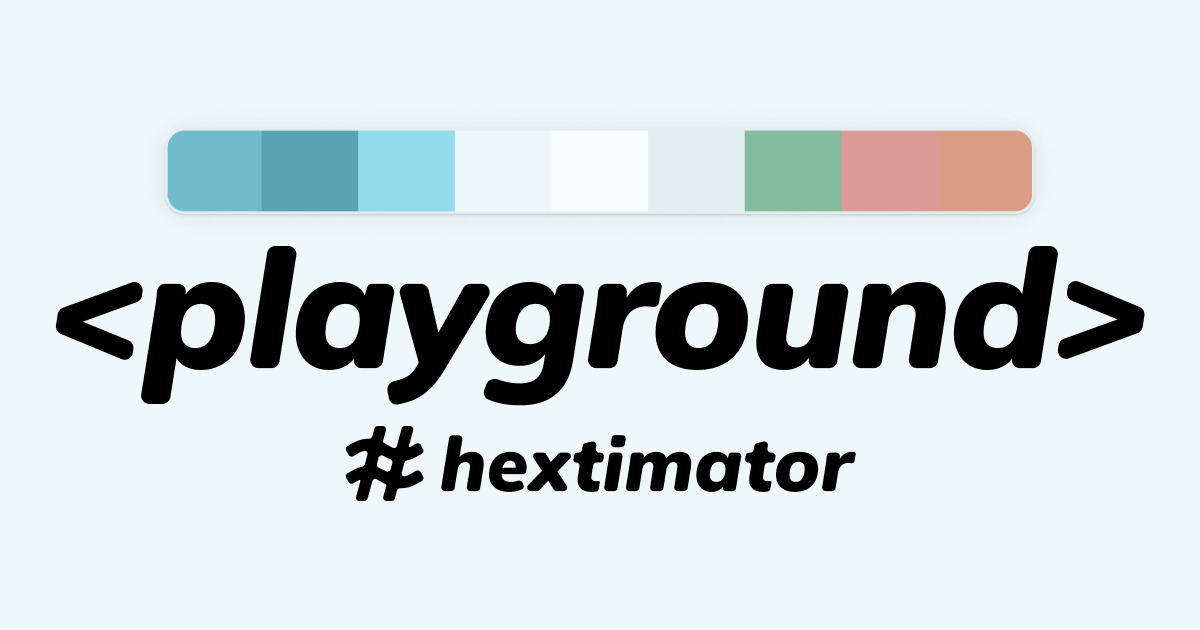
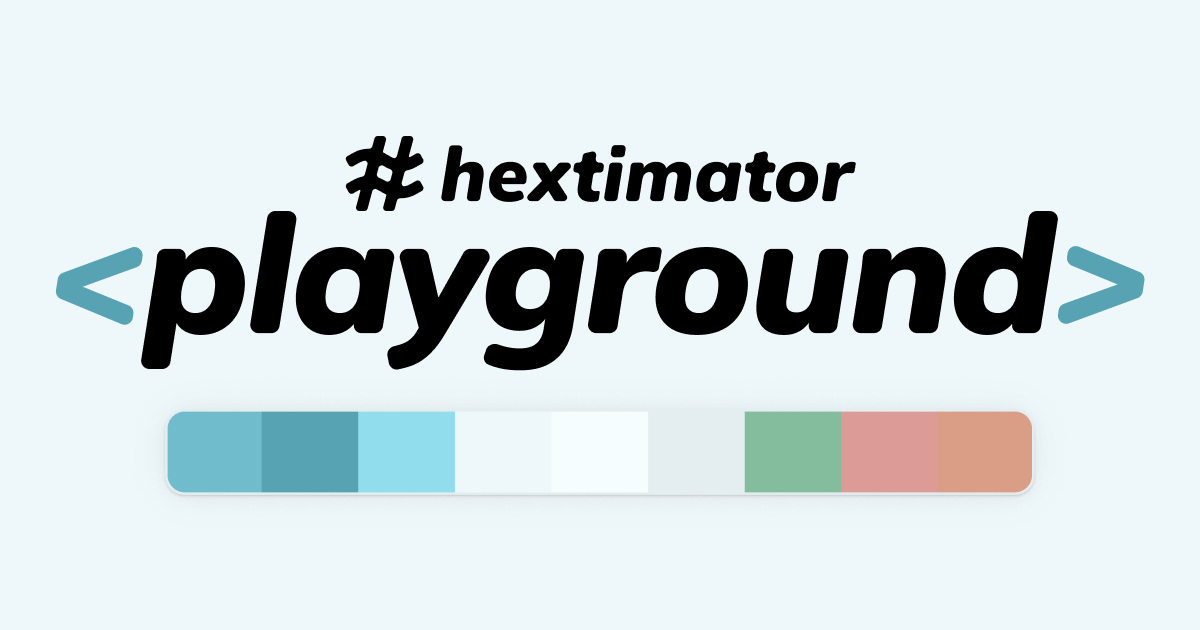
feat: make use cases clearer (#111)
* docs: update READMEs to be more precise on what hextimator is

* docs: update images to be more clear

* docs: further docs polish

* docs: update the keywords

Changed region(s): [[0.0308, 0.181, 0.9558, 0.8143]]

diff --git a/apps/website/src/components/hero/hero.tsx b/apps/website/src/components/hero/hero.tsx
@@ -101,7 +101,7 @@ export function Hero() {
 				</span>
 				<LongArrowRightDown className="size-4" strokeWidth={1} />
 			</div>
-			<h1 className="sr-only">Hextimator: one color in, whole theme out</h1>
+			<h1 className="sr-only">Hextimator: one color in, branded theme out</h1>
 			<div className="flex flex-col items-center">
 				<div className="flex flex-row gap-1 font-light text-4xl">
 					<span aria-hidden>One</span>

diff --git a/apps/website/src/App.tsx b/apps/website/src/App.tsx
@@ -103,7 +103,7 @@ function App() {
 					<PlaygroundSection />
 					<Section
 						title="Get started"
-						description="Add hextimator to your project and start building your theme."
+						description="Add hextimator to your project and start building your theme. Use it for B2B2C SaaS, white-label platforms, no-code builders, CMS themes, multi-brand design systems."
 					>
 						<GetStarted />
 					</Section>

diff --git a/packages/hextimator/README.md b/packages/hextimator/README.md
@@ -6,15 +6,45 @@
     </picture>
 </p>
 
-One color in, whole theme out.
+Per-tenant themes from a single one brand color: Runtime theming for B2B2C and white-label apps.
 
-Your customers pick a brand color. Your app looks good. Every time. No manual tuning, no edge cases where "that shade of yellow" breaks your UI.
+Your customers pick a brand color. Your app looks good. Every time. No per-customer design reviews, no manual tuning, no edge cases where "that shade of yellow" breaks your UI.
 
-- **Ship multi-tenant apps without the design overhead** — generate per-tenant branded themes at runtime from a single input color. No design review per customer.
-- **Every color just works** — perceptually uniform colors with OKLCH means that electric blue looks as balanced as muted olive.
-- **Accessible by default** — every foreground meets AAA contrast against its background, light and dark mode included.
+Ship multi-tenant apps without the design overhead:
 
-**[hextimator.com](https://hextimator.com)** — try it in the playground.
+- **Every color just works**. Perceptually uniform colors with OKLCH means that electric blue looks as balanced as muted olive.
+- **Accessible by default**. Every foreground meets AAA contrast against its background, light and dark mode included.
+
+Try it in the playground: **[hextimator.com](https://hextimator.com)**
+
+## Why `hextimator` exists
+
+You're building a B2B, a B2B2C, or a white-label app. Every tenant wants their own brand color in the app. The options today are:
+
+1. **Let customers pick any hex.** It works until a partner's _legal-pad yellow_ renders your buttons unreadable, and their _cheeto dust tangerine_ toast makes it indistinguishable from a warning.
+2. **Constrain them to a curated palette.** Now you need to tell a paying customer that their brand color isn't allowed. Or spend hours adjusting all the other colors by hand to make the theme somewhat work.
+
+Hextimator is option 3. One color in, whole theme out. You get accent, semantic roles, light/dark palette, every foreground guaranteed to meet WCAG contrast against its background. Every time. Even for that yellow.
+
+```ts
+import { hextimate } from "hextimator";
+
+const tenantTheme = hextimate(tenant.brandColor).format({ as: "css" });
+
+document.getElementById("tenant-theme").textContent = tenantTheme;
+```
+
+That's the integration. Swap the color, the theme regenerates at runtime, and the UI stays readable.
+
+Using React? Even easier:
+
+```jsx
+<HextimatorProvider defaultColor={tenant.brandColor}>
+  <App />
+</HextimatorProvider>
+```
+
+See full React integration guide [here](https://github.com/fgrgic/hextimator/blob/main/packages/hextimator/docs/react.md).
 
 ## Installation
 
@@ -24,19 +54,37 @@ Add to your project:
 npm i hextimator
 ```
 
-Or quickly get a one-off theme:
+**Using tailwind?**
+make sure to include
 
-```bash
-npx hextimator "#C0FFEE"
+```css
+@import "hextimator/tailwind.css";
 ```
 
+in your `index.css`
+
 ## Quick start
+
+```bash
+npm install hextimator
+```
 
 ```typescript
 import { hextimate } from "hextimator";
 
-const theme = hextimate("#C0FFEE").format();
+const theme = hextimate("#6A5ACD").format();
+// theme.light / theme.dark each contain your full theme tokens
 ```
+
+### Multi-tenant app with React
+
+```jsx
+<HextimatorProvider defaultColor={tenant.brandColor}>
+  <App />
+</HextimatorProvider>
+```
+
+See full React integration guide [here](https://github.com/fgrgic/hextimator/blob/main/packages/hextimator/docs/react.md).
 
 ### With presets
 
@@ -116,7 +164,7 @@ hextimate("#F11732").format({
 const myPreset: HextimatePreset = {
   format: {
     excludeRoles: ["warning"],
-    excludeVariants: ["strong", "weak"],
+    excludeVariants: ["weak"],
   },
 };
 ```
@@ -152,7 +200,7 @@ All formats return `{ light: { ... }, dark: { ... } }`.
 
 Besides hex, **`hextimate`** accepts CSS color strings, RGB tuples, and numeric `0xRRGGBB`—anything **`parseColor`** understands.
 
-> **Note on alpha**: Alpha values are intentionally ignored — `rgba(255, 0, 0, 0.5)` is treated as fully opaque `rgb(255, 0, 0)`. Alpha tokens undermine accessibility guarantees because contrast ratios depend on the background, which hextimator does not control.
+> **Note on alpha**: Alpha values are intentionally ignored — `rgba(255, 0, 0, 0.5)` is treated as fully opaque `rgb(255, 0, 0)`. Alpha tokens undermine accessibility guarantees because contrast ratios depend on the background, which hextimator does not control. You can always add an opacity modifier later if you wish (e.g. `base-accent-weak/20` in tailwind).
 
 Before `.format()` you can still chain **`addRole` / `addVariant` / `addToken`**, **`.preset()`**, **`.fork()`**, **`.simulate()` / `.adaptFor()`**, and anything else in [Extending the palette](https://github.com/fgrgic/hextimator/blob/main/packages/hextimator/docs/extending-the-palette.md) or [Presets](https://github.com/fgrgic/hextimator/blob/main/packages/hextimator/docs/presets.md).
 
@@ -174,6 +222,22 @@ import { parseColor, convertColor } from "hextimator";
 const color = parseColor("rgb(255, 102, 102)");
 const oklch = convertColor(color, "oklch");
 ```
+
+## CLI
+
+Quickly get one-off themes from the terminal:
+
+```sh
+npx hextimate "#ff6677";
+```
+
+Get the full help running:
+
+```
+npx hextimate -h
+```
+
+> Note: `hextimate` and `hextimator` are the same CLI; pick whichever you like typing.
 
 ## React
 

diff --git a/README.md b/README.md
@@ -6,21 +6,43 @@
     </picture>
 </p>
 
-One color in, whole theme out.
+Per-tenant themes from a single one brand color: Runtime theming for B2B2C and white-label apps.
 
-Your customers pick a brand color. Your app looks good. Every time. No manual tuning, no edge cases where "that shade of yellow" breaks your UI.
+Your customers pick a brand color. Your app looks good. Every time. No per-customer design reviews, no manual tuning, no edge cases where "that shade of yellow" breaks your UI.
 
-- **Ship white-label apps without the design overhead** — generate per-tenant branded themes at runtime from a single input color. No design review per customer.
-- **Every color just works** — perceptually uniform color science (OKLCH) means electric blue looks as balanced as muted olive.
-- **Accessible by default** — every foreground meets AAA contrast against its background, light and dark mode included.
+Ship multi-tenant apps without the design overhead:
 
-Try it in the playground at **[hextimator.com](https://hextimator.com)**.
+- **Every color just works**. Perceptually uniform colors with OKLCH means that electric blue looks as balanced as muted olive.
+- **Accessible by default**. Every foreground meets AAA contrast against its background, light and dark mode included.
+
+Try it in the playground: **[hextimator.com](https://hextimator.com)**
+
+## Why `hextimator` exists
+
+You're building a B2B, a B2B2C, or a white-label app. Every tenant wants their own brand color in the app. The options today are:
+
+1. **Let customers pick any hex.** It works until a partner's _legal-pad yellow_ renders your buttons unreadable, and their _cheeto dust tangerine_ toast makes it indistinguishable from a warning.
+2. **Constrain them to a curated palette.** Now you need to tell a paying customer that their brand color isn't allowed. Or spend hours adjusting all the other colors by hand to make the theme somewhat work.
+
+Hextimator is option 3. One color in, whole theme out. You get accent, semantic roles, light/dark palette, every foreground guaranteed to meet WCAG contrast against its background. Every time. Even for that yellow.
+
+```ts
+import { hextimate } from "hextimator";
+
+const tenantTheme = hextimate(tenant.brandColor).format({ as: "css" });
+
+document.getElementById("tenant-theme").textContent = tenantTheme;
+```
+
+That's the integration. Swap the color, the theme regenerates at runtime, and the UI stays readable.
 
 ## Quick start
 
 ```bash
 npm install hextimator
 ```
+
+### One-off theme
 
 ```typescript
 import { hextimate } from "hextimator";
@@ -29,17 +51,27 @@ const theme = hextimate("#6A5ACD").format();
 // theme.light / theme.dark each contain your full theme tokens
 ```
 
+### Multi-tenant app with React
+
+```jsx
+<HextimatorProvider defaultColor={tenant.brandColor}>
+  <App />
+</HextimatorProvider>
+```
+
+See full React integration guide [here](https://github.com/fgrgic/hextimator/blob/main/packages/hextimator/docs/react.md).
+
 ## Documentation
 
-Full API docs, options reference, React hook, Tailwind v4 setup, and examples live in the [package README](./packages/hextimator/README.md) 
+Full API docs, options reference, React hook, Tailwind v4 setup, and examples live in the [package README](./packages/hextimator/README.md)
 
 ## Monorepo structure
 
-| Workspace | Path | Description |
-|---|---|---|
-| `hextimator` | `packages/hextimator/` | The publishable npm package |
-| `playground` | `apps/playground/` | React app for local testing |
-| `website` | `apps/website/` | Landing page ([hextimator.com](https://hextimator.com)) |
+| Workspace    | Path                   | Description                                             |
+| ------------ | ---------------------- | ------------------------------------------------------- |
+| `hextimator` | `packages/hextimator/` | The publishable npm package                             |
+| `playground` | `apps/playground/`     | React app for local testing                             |
+| `website`    | `apps/website/`        | Landing page ([hextimator.com](https://hextimator.com)) |
 
 ## Dev workflow
 
